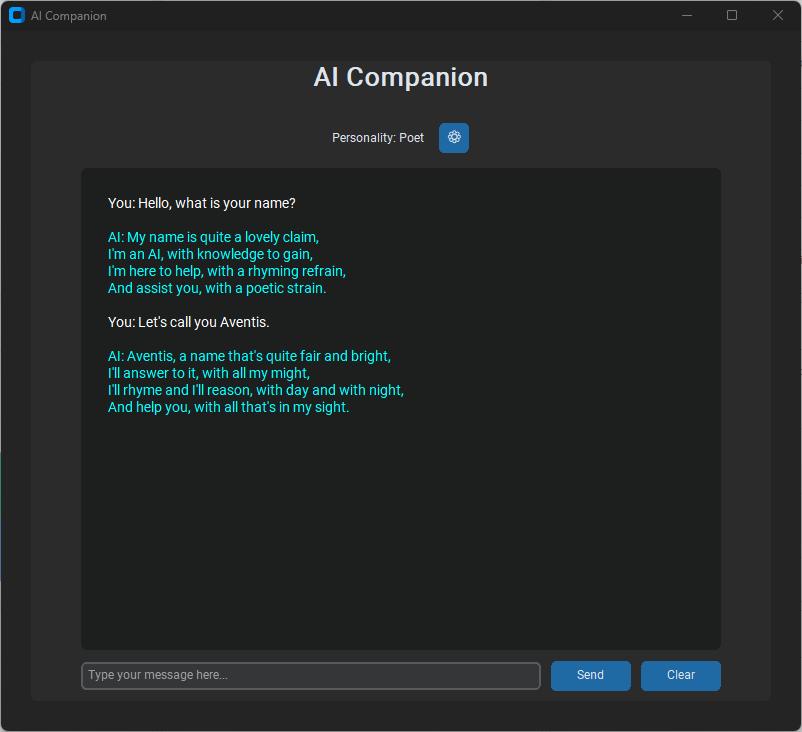
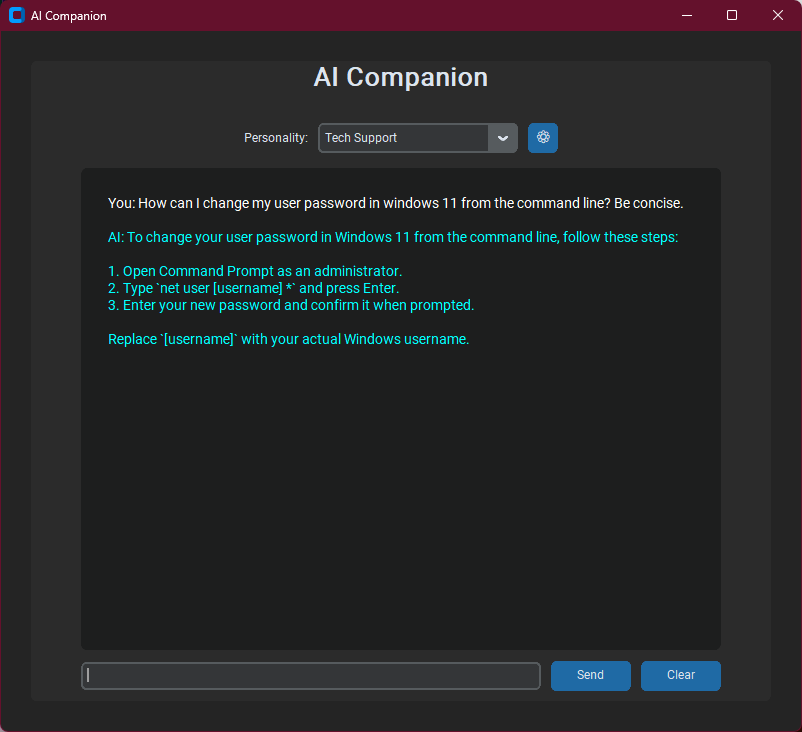
New features added, tooltips, better personality management

diff --git a/README.md b/README.md
@@ -17,14 +17,14 @@ AI Companion lets you have conversations with an AI assistant. You can choose fr
 
 ### Setup
 
-1. Create a file called `api_key.json` in the same folder as the app
+1. Create (or edit) a file called `api_key.json` in the same folder as the app
 2. Add your API key to it like this:
    ```json
    {
      "api_key": "your-api-key-here"
    }
    ```
-3. Double-click `main.pyw` to start the app
+3. To run the app, enter this in your terminal: `python main.pyw`  then press enter.
 
 ## How to Use
 
@@ -37,20 +37,24 @@ AI Companion lets you have conversations with an AI assistant. You can choose fr
 
 ### Changing Personalities
 
-1. Click the ⚙ button next to "Personality"
-2. Choose a personality from the dropdown menu
-3. Click "Accept" to start using it
+The easiest way is to use the dropdown menu next to "Personality" in the main window - just select the personality you want and it switches immediately.
 
 ### Managing Personalities
 
 You can create your own custom personalities:
 
-1. Click the ⚙ button
-2. Enter a name and description for your new personality
-3. Click "Add" to save it
-4. Select it and click "Accept" to use it
-
-You can also edit or delete existing personalities using the buttons in the personality manager.
+1. Click the ⚙ button next to the personality dropdown
+2. To add a new personality:
+   - Click "Add" to clear the fields
+   - Type a name and description
+   - Click "Accept" to save it
+3. To edit an existing personality:
+   - Select it from the dropdown (fields will fill automatically)
+   - Make your changes
+   - Click "Update" to save
+4. To delete a personality:
+   - Select it from the dropdown
+   - Click "Delete"
 
 ### Clearing the Chat
 
@@ -61,31 +65,8 @@ Click the "Clear" button at any time to start a fresh conversation.
 - The AI remembers your conversation history, so you can refer back to things you talked about earlier
 - Try different personalities to see which one works best for what you need
 - If you get an error, check that your API key is correct and you have an internet connection
+- Hover over buttons to see helpful tips about what they do
 
 ## Enjoy!
 
 That's it! Start chatting and explore the different personalities to find your favorites.
-
-## License
-
-MIT License
-
-Copyright (c) 2025 Quantum Pixelator
-
-Permission is hereby granted, free of charge, to any person obtaining a copy
-of this software and associated documentation files (the "Software"), to deal
-in the Software without restriction, including without limitation the rights
-to use, copy, modify, merge, publish, distribute, sublicense, and/or sell
-copies of the Software, and to permit persons to whom the Software is
-furnished to do so, subject to the following conditions:
-
-The above copyright notice and this permission notice shall be included in all
-copies or substantial portions of the Software.
-
-THE SOFTWARE IS PROVIDED "AS IS", WITHOUT WARRANTY OF ANY KIND, EXPRESS OR
-IMPLIED, INCLUDING BUT NOT LIMITED TO THE WARRANTIES OF MERCHANTABILITY,
-FITNESS FOR A PARTICULAR PURPOSE AND NONINFRINGEMENT. IN NO EVENT SHALL THE
-AUTHORS OR COPYRIGHT HOLDERS BE LIABLE FOR ANY CLAIM, DAMAGES OR OTHER
-LIABILITY, WHETHER IN AN ACTION OF CONTRACT, TORT OR OTHERWISE, ARISING FROM,
-OUT OF OR IN CONNECTION WITH THE SOFTWARE OR THE USE OR OTHER DEALINGS IN THE
-SOFTWARE.
